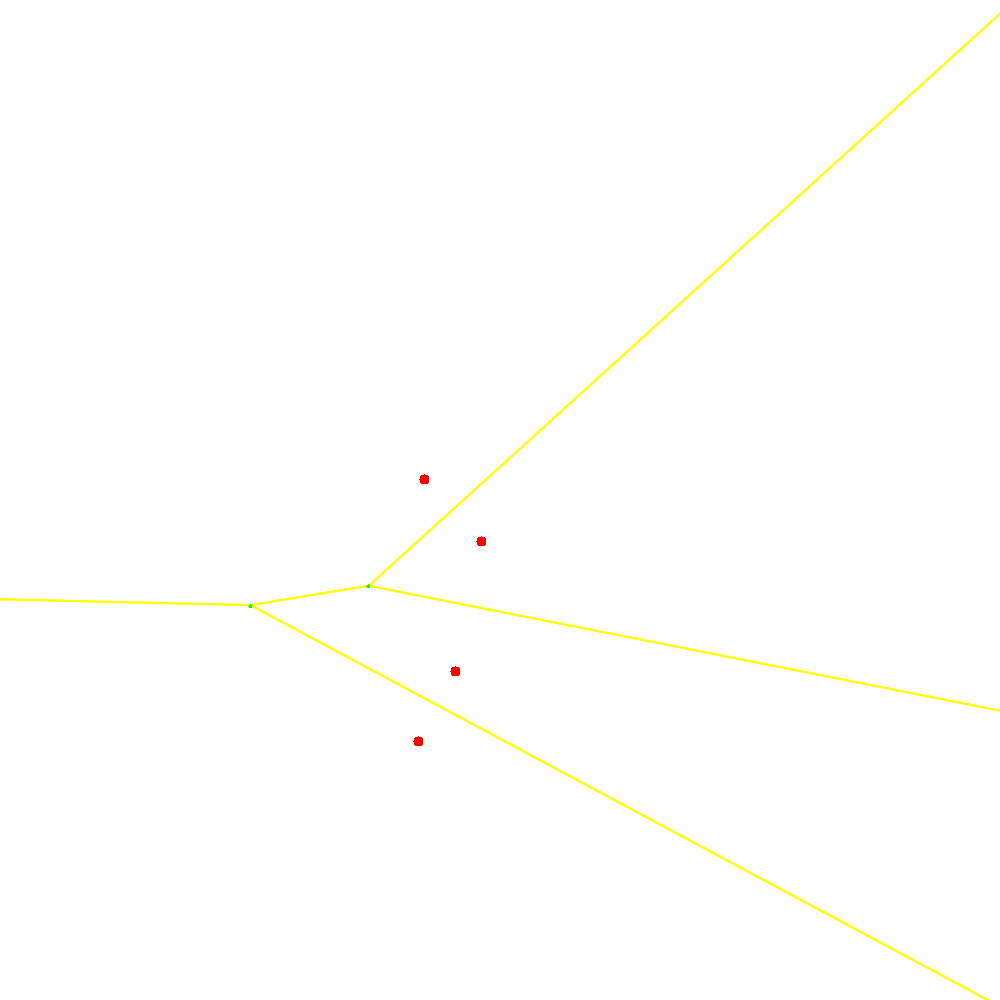
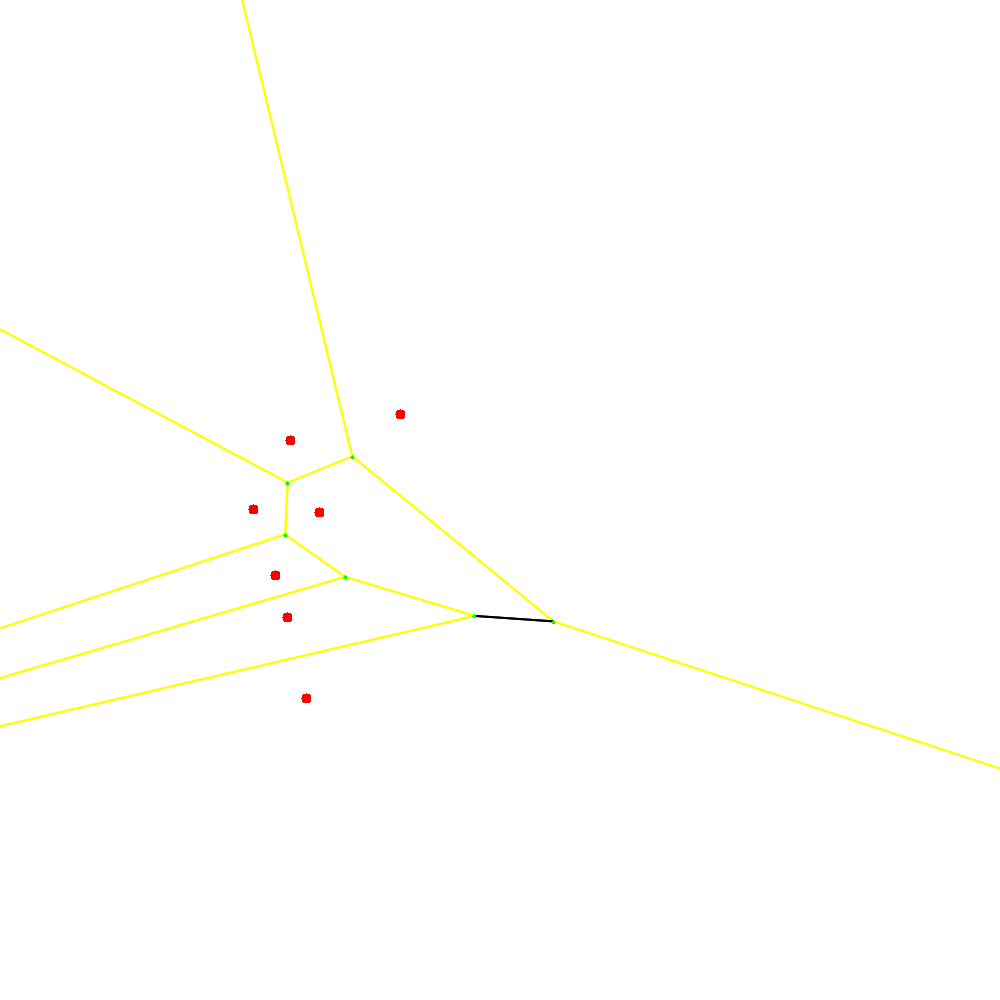
Repaired one big issue. The next thing is, that some of the special edges for last removal, are not properly recognized.

diff --git a/Go/src/Voronoi/voronoi.go b/Go/src/Voronoi/voronoi.go
@@ -161,7 +161,7 @@ func (v *Voronoi)createImage(filename string, whole bool) {
                 //continue
             }
 
-            if i == 17 || i == 16 {
+            if i == 14 || i == 15 {
                 fmt.Printf("coloring now for something\n")
                 tmpC := color.RGBA{0,0,0,255}
                 gc.SetStrokeColor(tmpC)
@@ -739,12 +739,6 @@ func (v *Voronoi)extractDividingChain(left, right VoronoiEntryFace) []ChainElem 
     bisector := PerpendicularBisector(v.faces[p].ReferencePoint, v.faces[q].ReferencePoint)
     bisector = Amplify(bisector, 100.0)
 
-    if g_recursions == 14 {
-        v.pprint()
-
-    }
-
-
     // As long as we didn't reach the lowest possible tangente, we continue.
     for {
         if g_recursions == 14 {
@@ -821,7 +815,7 @@ func (v *Voronoi)extractDividingChain(left, right VoronoiEntryFace) []ChainElem 
 
     }
 
-    if g_recursions == 7 {
+    if g_recursions == 14 {
         drawDividingChain(dividingChain)
     }
 
@@ -888,26 +882,38 @@ func (v *Voronoi)mergeVoronoi(left, right VoronoiEntryFace) VoronoiEntryFace {
                 potentialSpecialQEdge = EmptyEdge
             }
 
-            if potentialSpecialQEdge != EmptyEdge {
-                fmt.Printf("Add special edge Q: %v\n", potentialSpecialQEdge)
+            if potentialSpecialQEdge != EmptyEdge &&
+               (v.edges[potentialSpecialQEdge].VOrigin == EmptyVertex || v.vertices[v.edges[potentialSpecialQEdge].VOrigin] == emptyV) &&
+               (v.edges[v.edges[potentialSpecialQEdge].ETwin].VOrigin == EmptyVertex || v.vertices[v.edges[v.edges[potentialSpecialQEdge].ETwin].VOrigin] == emptyV) {
+                fmt.Printf("Add special edge Q: %v: %v\n", potentialSpecialQEdge, v.edges[potentialSpecialQEdge])
                 specialQEdges = append(specialQEdges, potentialSpecialQEdge)
+                potentialSpecialQEdge = EmptyEdge
             }
 
         }
-        if chain.edgeP != EmptyEdge && potentialSpecialPEdge != chain.edgeP && potentialSpecialPEdge != EmptyEdge {
-            fmt.Printf("Add special edge P: %v\n", potentialSpecialPEdge)
-            specialPEdges = append(specialPEdges, potentialSpecialPEdge)
-            potentialSpecialPEdge = EmptyEdge
+        if chain.edgeP != EmptyEdge && potentialSpecialPEdge != EmptyEdge {
+
+            if potentialSpecialPEdge == chain.edgeP {
+                potentialSpecialPEdge = EmptyEdge
+            }
+
+            if potentialSpecialPEdge == v.edges[chain.edgeP].ENext {
+                potentialSpecialPEdge = EmptyEdge
+            }
+
+            if potentialSpecialPEdge != EmptyEdge &&
+               (v.edges[potentialSpecialPEdge].VOrigin == EmptyVertex || v.vertices[v.edges[potentialSpecialPEdge].VOrigin] == emptyV) &&
+               (v.edges[v.edges[potentialSpecialPEdge].ETwin].VOrigin == EmptyVertex || v.vertices[v.edges[v.edges[potentialSpecialPEdge].ETwin].VOrigin] == emptyV) {
+                fmt.Printf("Add special edge P: %v\n", potentialSpecialPEdge)
+                specialPEdges = append(specialPEdges, potentialSpecialPEdge)
+                potentialSpecialPEdge = EmptyEdge
+            }
         }
 
         //fmt.Printf("edgeQ: %v, edgeP: %v\n", chain.edgeQ, chain.edgeP)
 
         if lastDownEdge != EmptyEdge {
             v.edges[lastDownEdge].ENext = heEdgeDown
-        }
-
-        if chain.edgeQ != EmptyEdge {
-            v.edges[chain.edgeQ].EPrev = heEdgeDown
         }
 
         // Set Previous edge. Only in case of an intersection with Q. The P one is handled implicitely.
@@ -958,6 +964,9 @@ func (v *Voronoi)mergeVoronoi(left, right VoronoiEntryFace) VoronoiEntryFace {
 
                 if removeNextEdge != EmptyEdge && v.edges[removeNextEdge] != emptyE && v.edges[removeNextEdge].ETwin != lastPEdge {
 
+                    //fmt.Printf("removeNextEdge     : %v --> %v, lastQEdge: %v\n", removeNextEdge, v.edges[removeNextEdge], lastQEdge)
+                    //fmt.Printf("removeNextEdge Twin: %v --> %v, lastQEdge: %v\n", v.edges[removeNextEdge].ETwin, v.edges[v.edges[removeNextEdge].ETwin], lastQEdge)
+
                     fmt.Printf("DELETE E: %v | %v\n", removeNextEdge, v.edges[removeNextEdge].ETwin)
 
                     v.edges[v.edges[removeNextEdge].ETwin] = emptyE
@@ -982,8 +991,8 @@ func (v *Voronoi)mergeVoronoi(left, right VoronoiEntryFace) VoronoiEntryFace {
 
                 if removeLastEdge != EmptyEdge && v.edges[removeLastEdge] != emptyE && v.edges[removeLastEdge].ETwin != lastQEdge {
 
-                    fmt.Printf("removeLastEdge     : %v --> %v, lastQEdge: %v\n", removeLastEdge, v.edges[removeLastEdge], lastQEdge)
-                    fmt.Printf("removeLastEdge Twin: %v --> %v, lastQEdge: %v\n", v.edges[removeLastEdge].ETwin, v.edges[v.edges[removeLastEdge].ETwin], lastQEdge)
+                    //fmt.Printf("removeLastEdge     : %v --> %v, lastQEdge: %v\n", removeLastEdge, v.edges[removeLastEdge], lastQEdge)
+                    //fmt.Printf("removeLastEdge Twin: %v --> %v, lastQEdge: %v\n", v.edges[removeLastEdge].ETwin, v.edges[v.edges[removeLastEdge].ETwin], lastQEdge)
 
                     if v.faces[chain.q].EEdge == removeLastEdge {
                         v.faces[chain.q].EEdge = heEdgeDown
@@ -994,14 +1003,13 @@ func (v *Voronoi)mergeVoronoi(left, right VoronoiEntryFace) VoronoiEntryFace {
                     v.edges[v.edges[removeLastEdge].ETwin] = emptyE
                     v.edges[removeLastEdge] = emptyE
 
-
-
                 }
 
                 // Delete the vertex.
                 v.vertices[vertex] = emptyV
             }
         }
+
 
 
         // Setting States
@@ -1013,7 +1021,6 @@ func (v *Voronoi)mergeVoronoi(left, right VoronoiEntryFace) VoronoiEntryFace {
             nextPEdge = v.edges[chain.edgeP].ETwin
             //lastUpEdge = v.edges[chain.edgeP].ETwin
 
-            //lastSpecialPEdge = v.edges[v.edges[chain.edgeP].ETwin].EPrev
             specialEdge := v.edges[v.edges[chain.edgeP].ETwin].EPrev
             if specialEdge != EmptyEdge && v.edges[specialEdge] != emptyE {
                 potentialSpecialPEdge = specialEdge
@@ -1032,7 +1039,6 @@ func (v *Voronoi)mergeVoronoi(left, right VoronoiEntryFace) VoronoiEntryFace {
             v.edges[chain.edgeQ].VOrigin = heVertex
             lastDownEdge = v.edges[chain.edgeQ].ETwin
 
-            //lastSpecialQEdge = v.edges[v.edges[chain.edgeQ].ETwin].ENext
             specialEdge := v.edges[v.edges[chain.edgeQ].ETwin].ENext
             if specialEdge != EmptyEdge && v.edges[specialEdge] != emptyE {
                 potentialSpecialQEdge = specialEdge
@@ -1081,9 +1087,9 @@ func (v *Voronoi)mergeVoronoi(left, right VoronoiEntryFace) VoronoiEntryFace {
         v.edges[specialEdge] = emptyE
     }
 
-    if g_recursions == 7 {
-        //v.edges[10] = emptyE
-        //v.edges[11] = emptyE
+    if g_recursions == 14 {
+        //v.edges[32] = emptyE
+        //v.edges[33] = emptyE
     }
 
     fmt.Printf("FINISHED MERGE OF %v AND %v\n\n", left, right)
@@ -1671,7 +1677,7 @@ func testUnknownProblemSeed(seed int64, count int) {
 
     sort.Sort(pointList)
 
-    pointList = pointList[len(pointList)/2:]
+    //pointList = pointList[len(pointList)/2:]
     //pointList = pointList[:len(pointList)/2]
 
     v := CreateVoronoi(pointList)
